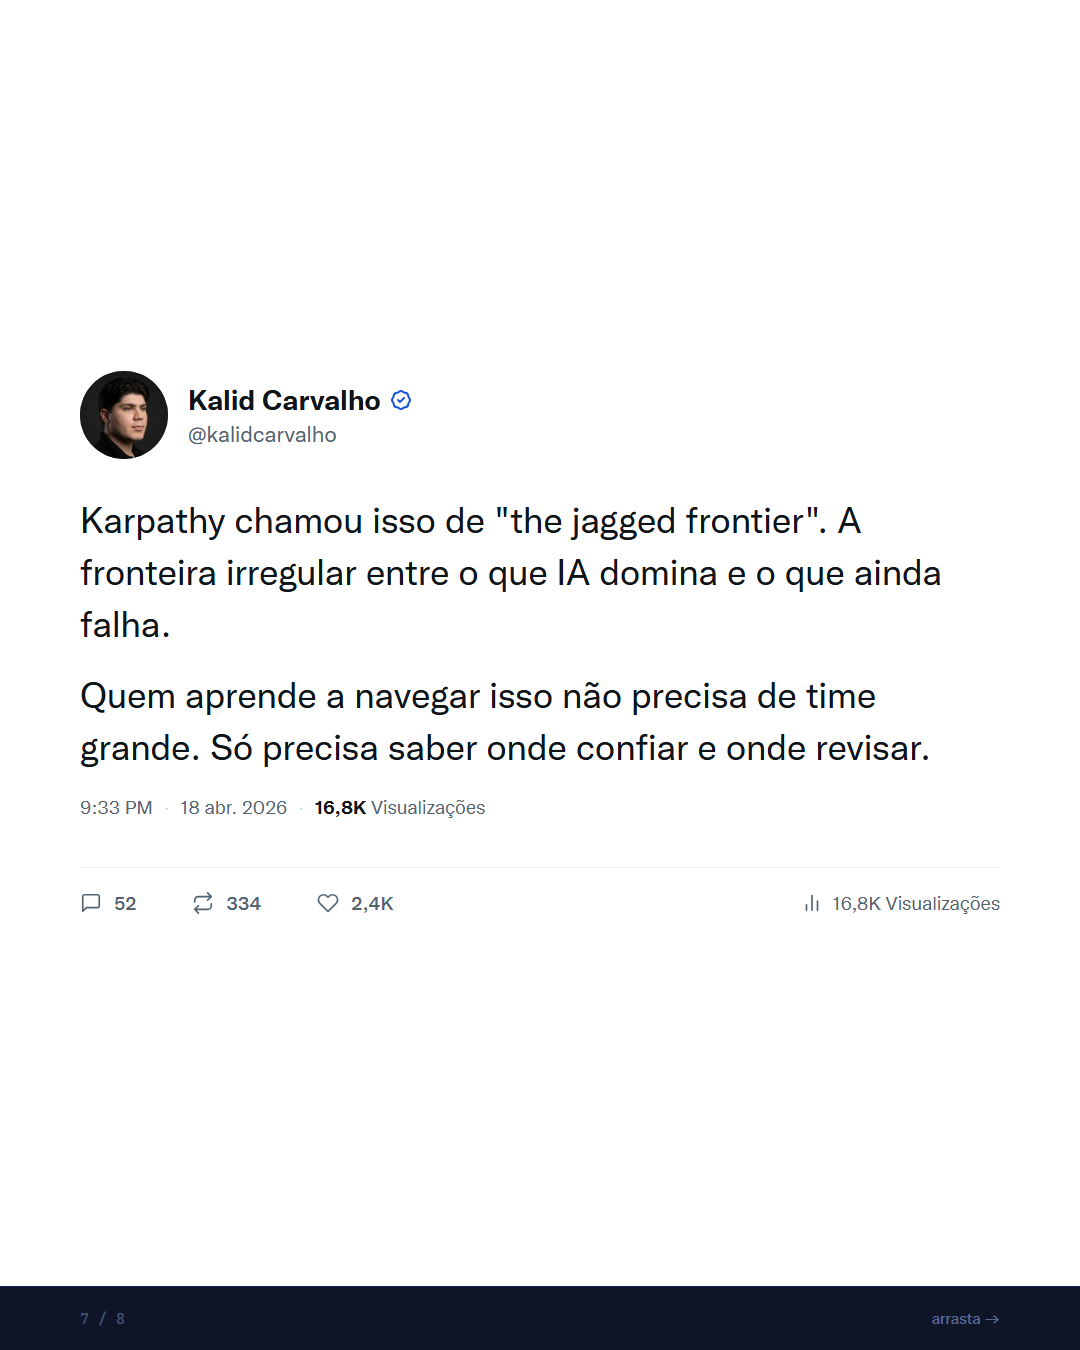
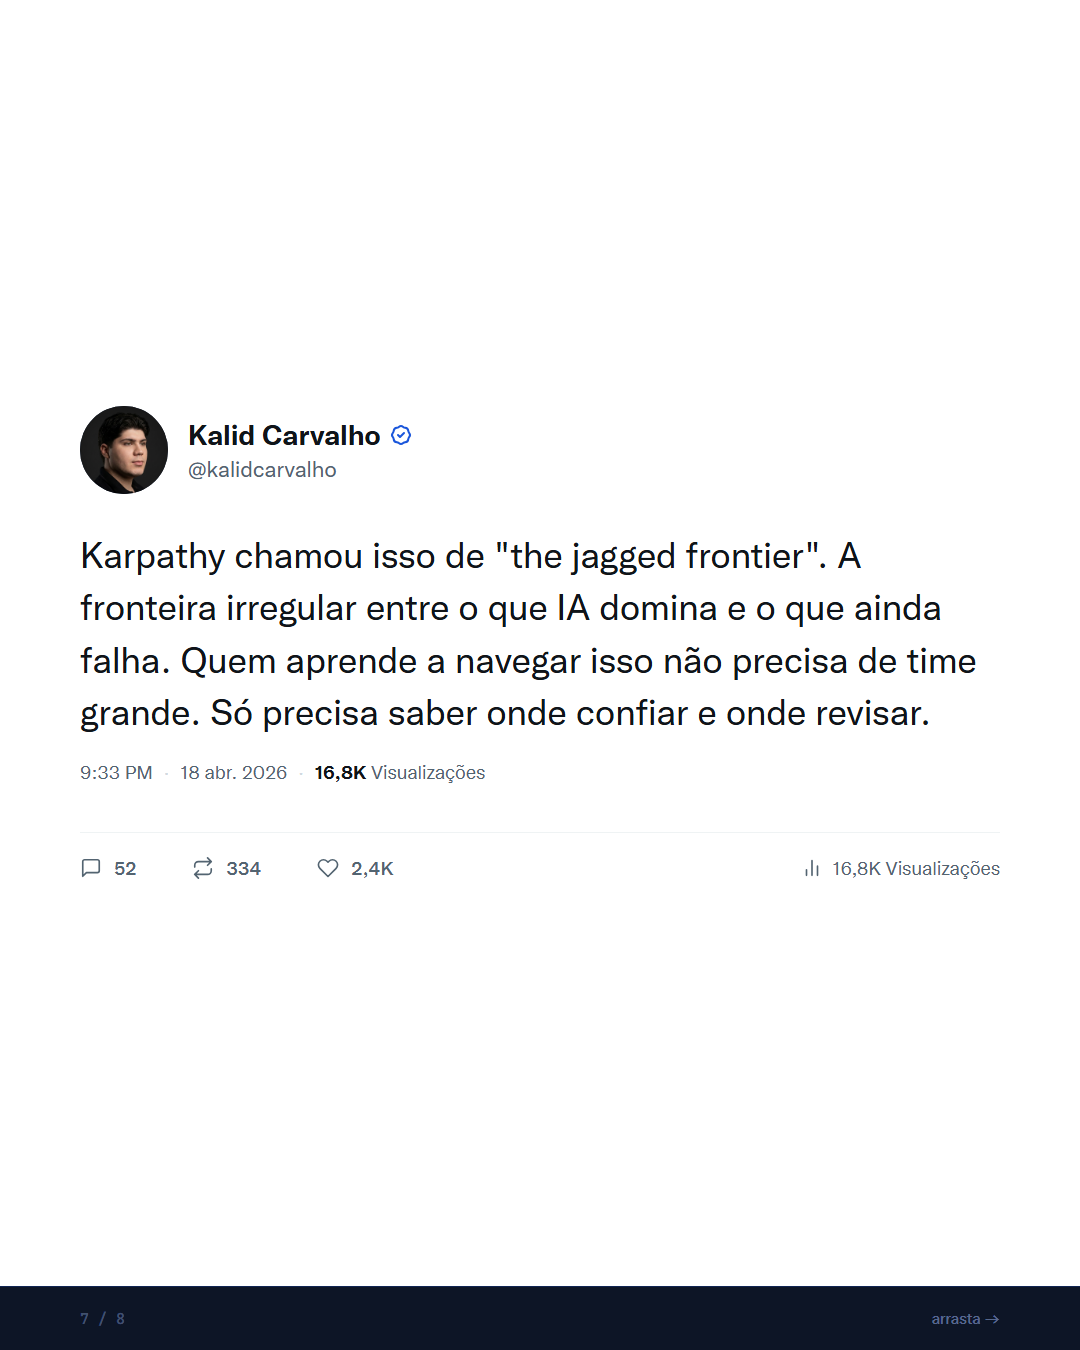
auto-sync: 2026-04-18 10:07

Changed region(s): [[0.0611, 0.2489, 0.9167, 0.6844], [0.7639, 0.6222, 0.9167, 0.6844]]

diff --git a/conteudo/kalidcarvalho/carrosseis/2026-04-18/instagram/slide-07.html b/conteudo/kalidcarvalho/carrosseis/2026-04-18/instagram/slide-07.html
@@ -124,8 +124,7 @@ body {
     </div>
 
     <div class="tweet-text">
-      <p>Karpathy chamou isso de "the jagged frontier". A fronteira irregular entre o que IA domina e o que ainda falha.</p>
-      <p>Quem aprende a navegar isso não precisa de time grande. Só precisa saber onde confiar e onde revisar.</p>
+      <p>Karpathy chamou isso de "the jagged frontier". A fronteira irregular entre o que IA domina e o que ainda falha. Quem aprende a navegar isso não precisa de time grande. Só precisa saber onde confiar e onde revisar.</p>
     </div>
 
     <div class="tweet-timestamp">
